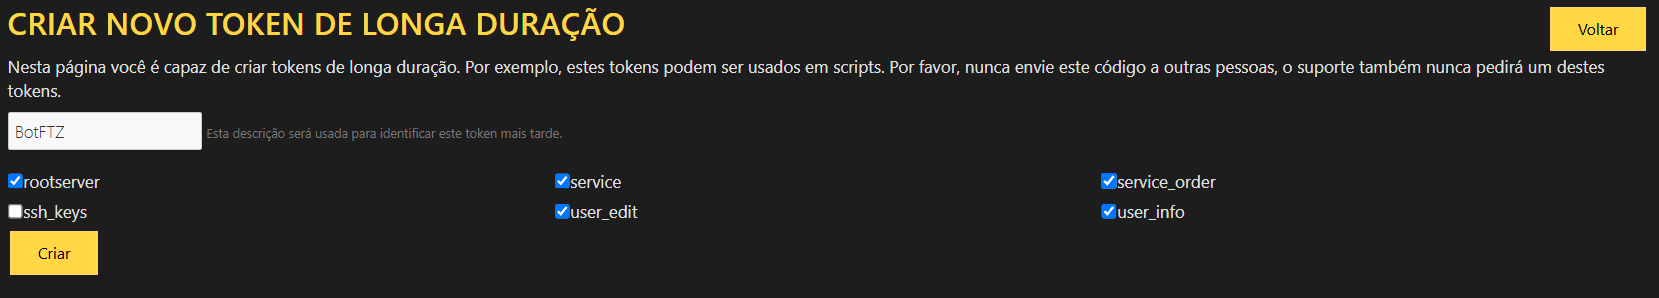
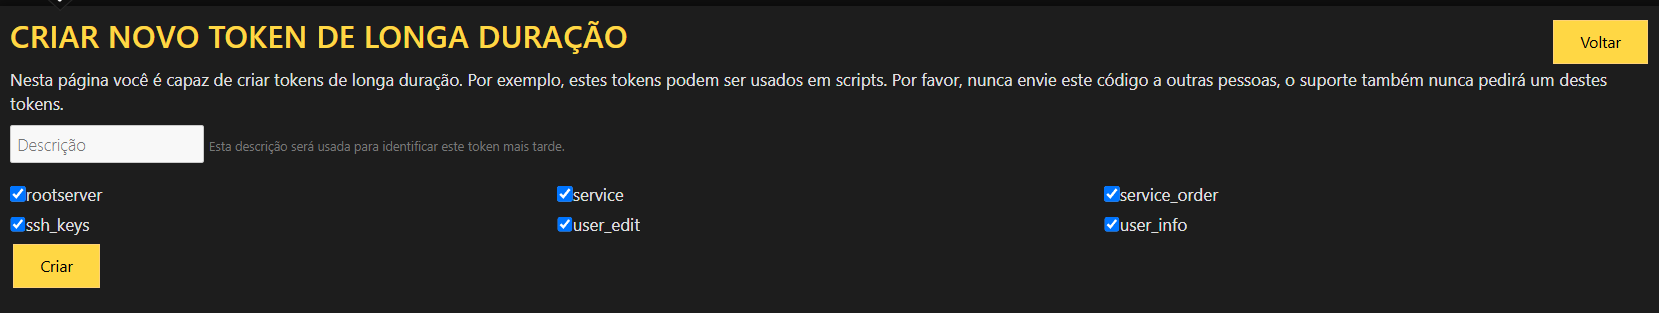
Corrige instrucao de token da Nitrado: marcar as 6 opcoes (nao 5)
ssh_keys tambem precisa ser marcado agora - texto e print atualizados
juntos pra nao ficar inconsistente.

diff --git a/index.html b/index.html
@@ -289,8 +289,8 @@
           <h3>2. Token da API</h3>
           <p>
             Em <a href="https://server.nitrado.net/prt/users/update_token" target="_blank" rel="noopener" style="color: var(--accent);">Criar Token</a>,
-            confirme sua senha e marque: <strong>rootserver</strong>, <strong>service</strong>, <strong>service_order</strong>,
-            <strong>user_edit</strong> e <strong>user_info</strong> (não precisa marcar <em>ssh_keys</em>). Dá um nome pro token
+            confirme sua senha e marque as <strong>6 opções</strong>: <strong>rootserver</strong>, <strong>service</strong>, <strong>service_order</strong>,
+            <strong>ssh_keys</strong>, <strong>user_edit</strong> e <strong>user_info</strong>. Dá um nome pro token
             (ex: "FTZ Bot") e clica em <strong>Criar</strong>.
           </p>
           <img src="assets/nitrado-token.png" alt="Tela de criação de token de longa duração na Nitrado, com os escopos marcados" style="width: 100%; border-radius: 8px; margin-top: 10px; border: 1px solid var(--border);" />
